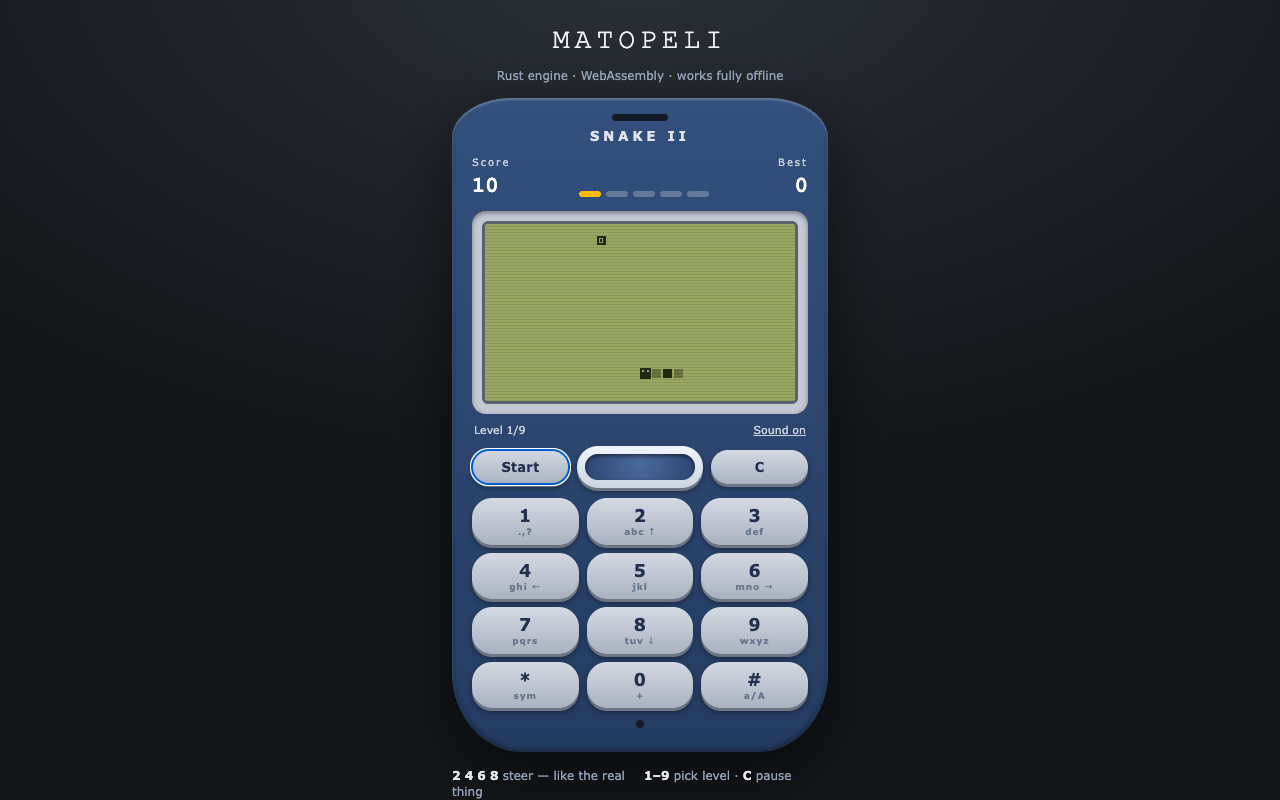
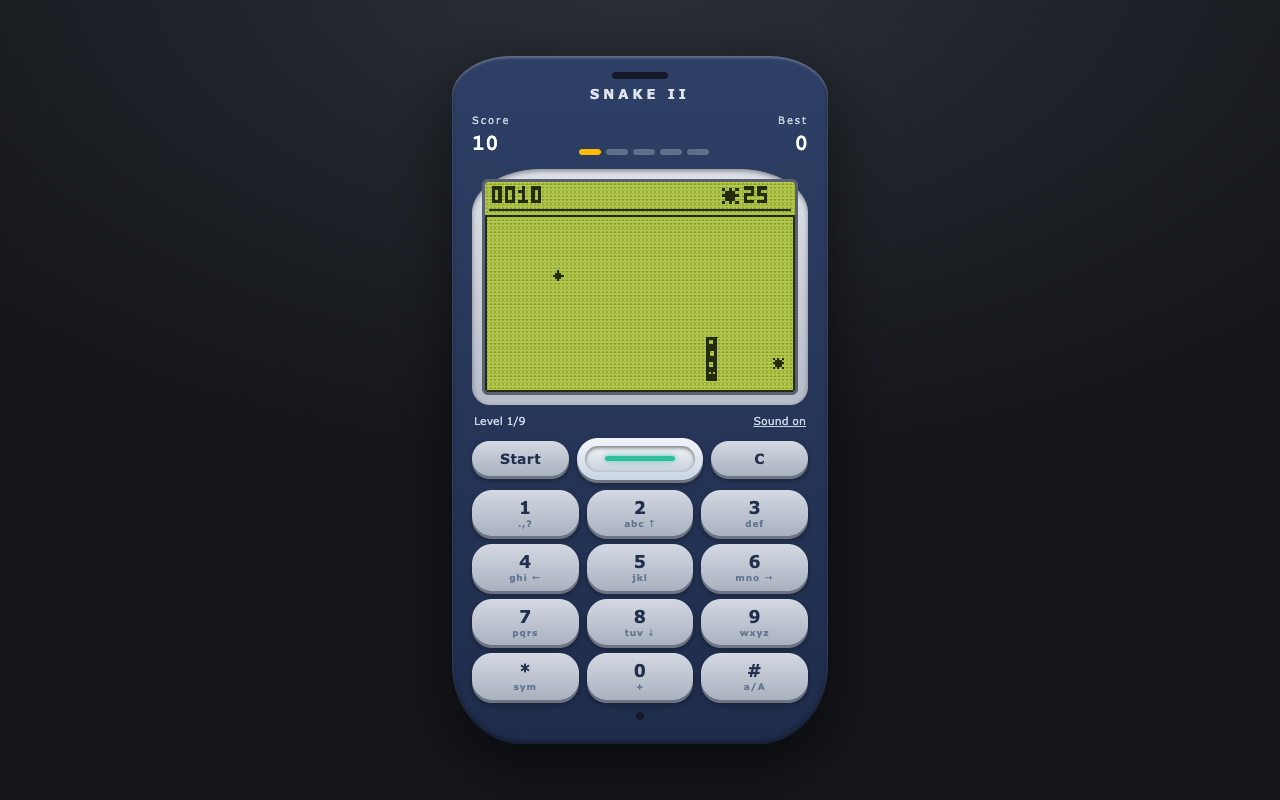
Retro HUD: pixel score, bug counter, chain snake, navy silver phone

Changed region(s): [[0.3438, 0.0312, 0.6562, 1.0], [0.625, 0.5625, 0.6562, 0.5938], [0.5938, 0.9688, 0.625, 1.0]]

diff --git a/src/scripts/snake.ts b/src/scripts/snake.ts
@@ -75,7 +75,8 @@ const engine: SnakeExports = maybeEngine;
 
 const GOAL = engine.snake_goal(), MAX_LEVEL = engine.snake_max_level();
 const CELL_PX = canvas.width / engine.snake_cols();
-const INK = '#232a12', PAPER = '#9aa763', DIM = '#6b743f';
+const BOARD_Y = 30;
+const INK = '#26300f', PAPER = '#b3c948', DIM = '#6d7a33';
 const MAX_FRAME_MS = 250;
 const FOOD_BLINK_MS = 250;
 const BONUS_BLINK_MS = 120;
@@ -232,21 +233,71 @@ function frame(now: number) {
   requestAnimationFrame(frame);
 }
 
+const FONT3X5: Record<string, string[]> = {
+  '0': ['111', '101', '101', '101', '111'],
+  '1': ['010', '110', '010', '010', '111'],
+  '2': ['111', '001', '111', '100', '111'],
+  '3': ['111', '001', '111', '001', '111'],
+  '4': ['101', '101', '111', '001', '001'],
+  '5': ['111', '100', '111', '001', '111'],
+  '6': ['111', '100', '111', '101', '111'],
+  '7': ['111', '001', '001', '010', '010'],
+  '8': ['111', '101', '111', '101', '111'],
+  '9': ['111', '101', '111', '001', '111'],
+};
+const APPLE = ['..#..', '.###.', '#####', '.###.', '..#..'];
+const BUG = ['#.#.#', '.###.', '#####', '.###.', '#.#.#'];
+
+function drawGlyph(map: string[], x: number, y: number, s: number, color: string) {
+  ctx.fillStyle = color;
+  for (let r = 0; r < map.length; r++) {
+    for (let c = 0; c < map[r].length; c++) {
+      if (map[r][c] === '#' || map[r][c] === '1') ctx.fillRect(x + c * s, y + r * s, s, s);
+    }
+  }
+}
+function drawNumber(value: number, digits: number, x: number, y: number, s: number) {
+  const text = String(value).padStart(digits, '0');
+  for (let i = 0; i < text.length; i++) {
+    drawGlyph(FONT3X5[text[i]], x + i * 4 * s, y, s, INK);
+  }
+}
+function drawLcdHeader() {
+  drawNumber(engine.snake_score(game), 4, 6, 4, 3);
+  const bonusTtl = engine.snake_bonus_ttl(game);
+  if (bonusTtl > 0) {
+    drawGlyph(BUG, canvas.width - 66, 5, 3, INK);
+    drawNumber(bonusTtl, 2, canvas.width - 46, 4, 3);
+  } else {
+    drawGlyph(APPLE, canvas.width - 62, 5, 3, INK);
+    drawNumber(GOAL - engine.snake_progress(game), 2, canvas.width - 44, 4, 3);
+  }
+  ctx.fillStyle = INK;
+  ctx.fillRect(4, 24, canvas.width - 8, 2);
+}
 function drawCell(x: number, y: number, color: string, solid = false) {
   ctx.fillStyle = color;
   const pad = solid ? 0 : 1;
-  ctx.fillRect(x * CELL_PX + pad, y * CELL_PX + pad, CELL_PX - pad * 2, CELL_PX - pad * 2);
+  ctx.fillRect(x * CELL_PX + pad, y * CELL_PX + BOARD_Y + pad, CELL_PX - pad * 2, CELL_PX - pad * 2);
 }
 function drawBoard(now: number) {
+  ctx.fillStyle = INK;
+  ctx.fillRect(0, BOARD_Y, canvas.width, 2);
+  ctx.fillRect(0, BOARD_Y, 2, canvas.height - BOARD_Y);
+  ctx.fillRect(canvas.width - 2, BOARD_Y, 2, canvas.height - BOARD_Y);
+  ctx.fillRect(0, canvas.height - 2, canvas.width, 2);
   const wallCount = engine.snake_wall_count(game);
   for (let i = 0; i < wallCount; i++) {
     const x = engine.snake_wall_x(game, i), y = engine.snake_wall_y(game, i);
     drawCell(x, y, INK, true);
     ctx.fillStyle = PAPER;
-    ctx.fillRect(x * CELL_PX, y * CELL_PX, CELL_PX, 1);
-    ctx.fillRect(x * CELL_PX, y * CELL_PX, 1, CELL_PX);
+    ctx.fillRect(x * CELL_PX, y * CELL_PX + BOARD_Y, CELL_PX, 1);
+    ctx.fillRect(x * CELL_PX, y * CELL_PX + BOARD_Y, 1, CELL_PX);
   }
-  if (Math.floor(now / FOOD_BLINK_MS) % 2 === 0) drawCell(engine.snake_food_x(game), engine.snake_food_y(game), INK);
+  if (Math.floor(now / FOOD_BLINK_MS) % 2 === 0) {
+    const fx = engine.snake_food_x(game), fy = engine.snake_food_y(game);
+    drawGlyph(APPLE, fx * CELL_PX + 1, fy * CELL_PX + BOARD_Y, 2, INK);
+  }
   drawBonus(now);
   drawSnake(now);
 }
@@ -255,28 +306,29 @@ function drawBonus(now: number) {
   if (bx < 0) return;
   const by = engine.snake_bonus_y(game), ttl = engine.snake_bonus_ttl(game);
   if (ttl <= BONUS_WARN_TTL && Math.floor(now / BONUS_BLINK_MS) % 2 !== 0) return;
-  const cx = bx * CELL_PX, cy = by * CELL_PX;
-  ctx.fillStyle = INK;
-  ctx.fillRect(cx + 1, cy + 1, CELL_PX - 2, CELL_PX - 2);
-  ctx.fillStyle = PAPER;
-  ctx.fillRect(cx + 3, cy + 3, CELL_PX - 6, CELL_PX - 6);
-  ctx.fillStyle = INK;
-  ctx.fillRect(cx + 4, cy + 4, CELL_PX - 8, CELL_PX - 8);
+  drawGlyph(BUG, bx * CELL_PX, by * CELL_PX + BOARD_Y - 1, 2, INK);
 }
 function drawSnake(now: number) {
   if (endBannerAt !== null && Math.floor(now / DEATH_BLINK_MS) % 2 === 0) return;
   const length = engine.snake_len(game);
-  for (let i = length - 1; i >= 1; i--) drawCell(engine.snake_cell_x(game, i), engine.snake_cell_y(game, i), i % 2 ? DIM : INK);
+  for (let i = length - 1; i >= 1; i--) {
+    const x = engine.snake_cell_x(game, i), y = engine.snake_cell_y(game, i);
+    drawCell(x, y, INK, true);
+    ctx.fillStyle = PAPER;
+    const ox = (x + y) % 2 === 0 ? 3 : 2;
+    ctx.fillRect(x * CELL_PX + ox, y * CELL_PX + BOARD_Y + 3, 4, 4);
+  }
   if (length === 0) return;
   const hx = engine.snake_cell_x(game, 0), hy = engine.snake_cell_y(game, 0);
   drawCell(hx, hy, INK, true);
   ctx.fillStyle = PAPER;
-  ctx.fillRect(hx * CELL_PX + 2, hy * CELL_PX + 2, 2, 2);
-  ctx.fillRect(hx * CELL_PX + 6, hy * CELL_PX + 2, 2, 2);
+  ctx.fillRect(hx * CELL_PX + 2, hy * CELL_PX + BOARD_Y + 2, 2, 2);
+  ctx.fillRect(hx * CELL_PX + 6, hy * CELL_PX + BOARD_Y + 2, 2, 2);
 }
 function render(now: number) {
   canvas.style.filter = now < flashUntil ? 'invert(0.9)' : '';
   ctx.fillStyle = PAPER; ctx.fillRect(0, 0, canvas.width, canvas.height);
+  drawLcdHeader();
   drawBoard(now);
   const score = engine.snake_score(game);
   if (score !== shownScore) {
@@ -294,7 +346,7 @@ function render(now: number) {
       ctx.fillStyle = INK;
       ctx.font = 'bold 13px "Courier New",monospace';
       ctx.textAlign = 'center';
-      ctx.fillText('BONUS ' + popup.text, canvas.width / 2, 24 - age * 10);
+      ctx.fillText('BONUS ' + popup.text, canvas.width / 2, 64 - age * 10);
       ctx.textAlign = 'left';
     }
   }

diff --git a/src/styles/app.css b/src/styles/app.css
@@ -1,11 +1,11 @@
 @import "tailwindcss";
 
 @theme {
-  --color-lcd-bg: #9aa763;
-  --color-lcd-ink: #232a12;
-  --color-lcd-dim: #5a6335;
-  --color-nokiablue-face: #33507e;
-  --color-nokiablue-dark: #243c61;
+  --color-lcd-bg: #b3c948;
+  --color-lcd-ink: #26300f;
+  --color-lcd-dim: #6d7a33;
+  --color-nokiablue-face: #2e4066;
+  --color-nokiablue-dark: #1f2c4c;
   --color-nokkey: #d4d9e2;
   --color-nokkey-dark: #a9b1c0;
   --color-accent: #febb02;
@@ -66,6 +66,34 @@ body {
 .scanlines {
   background: repeating-linear-gradient(to bottom, transparent 0 2px, rgba(0, 0, 0, 0.1) 2px 3px);
 }
+.scanlines::after {
+  content: "";
+  position: absolute;
+  inset: 0;
+  background-image: radial-gradient(rgba(0, 0, 0, 0.14) 1px, transparent 1.4px);
+  background-size: 4px 4px;
+}
+.screen-arc {
+  border-radius: 70px 70px 18px 18px / 44px 44px 18px 18px;
+  background: linear-gradient(#dde1e9, #b7bdc9);
+}
+#navi span {
+  background: linear-gradient(#f2f5f9, #c9d0dc);
+  position: relative;
+}
+#navi span::after {
+  content: "";
+  position: absolute;
+  left: 18%;
+  right: 18%;
+  top: 50%;
+  height: 5px;
+  margin-top: -2.5px;
+  border-radius: 3px;
+  background: #2fbfa0;
+  box-shadow: 0 0 6px rgba(47, 191, 160, 0.8);
+}
+.keypad b { color: #1f9d55; }
 canvas { image-rendering: pixelated; touch-action: none; }
 .banner { display: flex; animation: bannerIn 0.18s ease-out; }
 .banner.hidden { display: none; }
